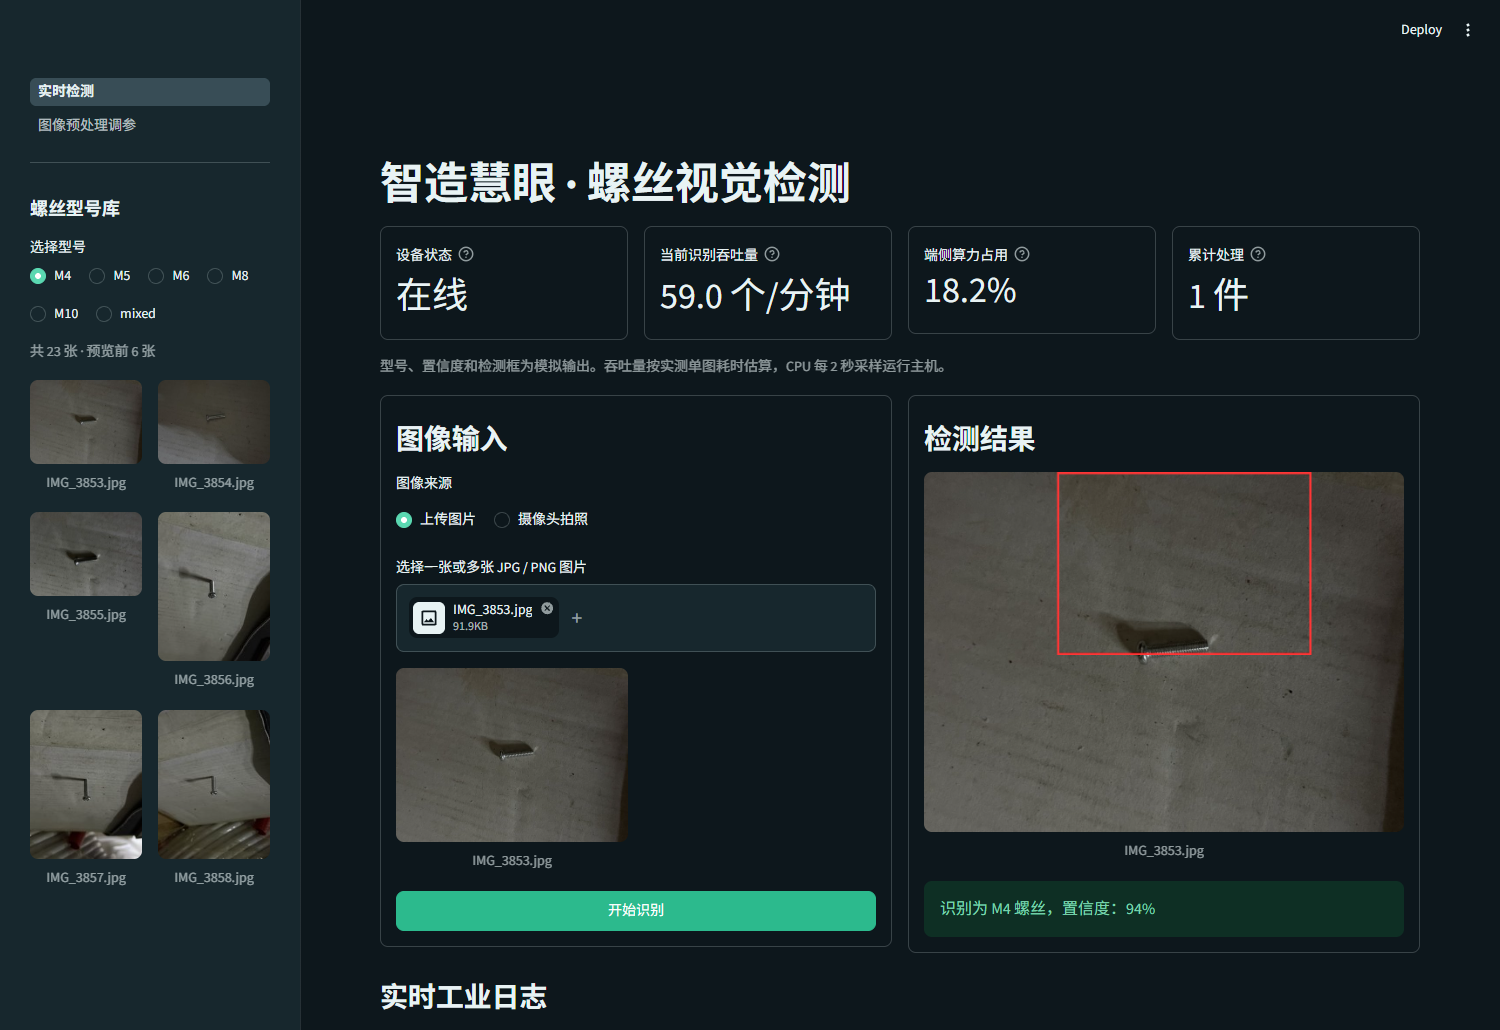
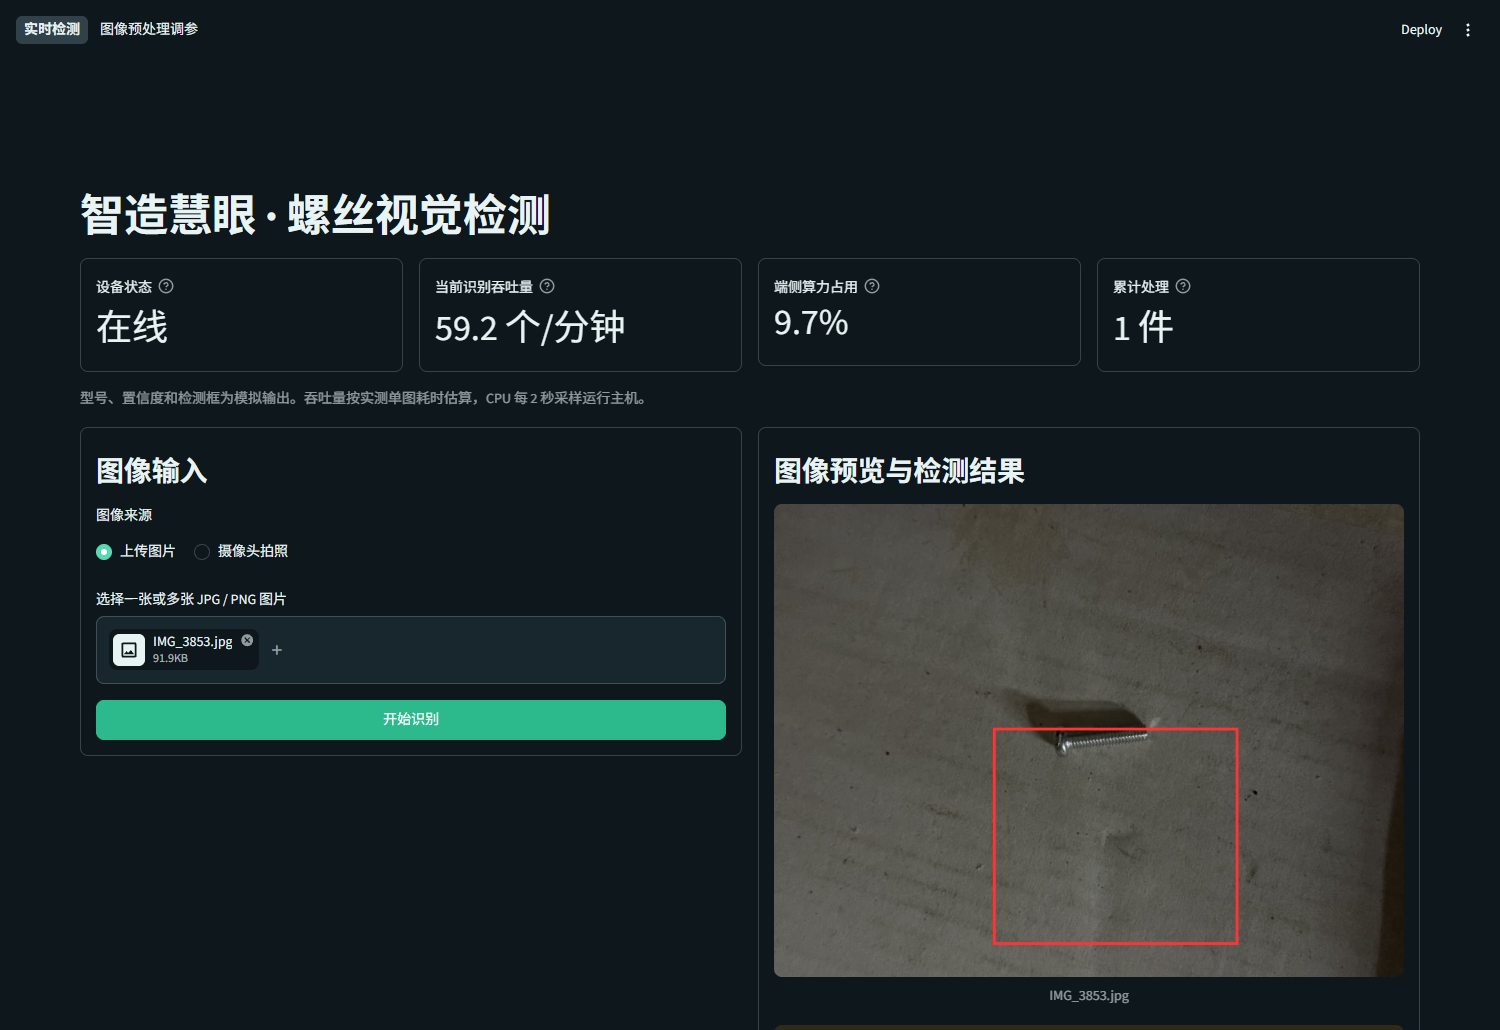
Remove the photo sidebar and show image previews with detection results

diff --git a/app.py b/app.py
@@ -20,9 +20,7 @@ from PIL import Image, ImageDraw, ImageOps
 
 
 ROOT = Path(__file__).resolve().parent
-LIBRARY = ROOT / "assets" / "screws"
 SPECS = ("M4", "M5", "M6", "M8", "M10")
-FORMATS = {".jpg", ".jpeg", ".png"}
 TAB_KEY = "vision_workspace_v1"
 st.set_page_config(page_title="智造慧眼 · 螺丝检测", layout="wide", page_icon="⚙")
 # 通过 Streamlit 的 Python 组件接口仅访问本应用的一项标签页存储。
@@ -34,7 +32,7 @@ tab_storage = components.declare_component(
 @st.cache_resource(ttl=3600, max_entries=32, show_spinner=False)
 def refresh_snapshot(tab_id):
     # 标签页仅持有随机恢复编号，图片与历史临时保存在服务端内存。
-    return {"selected_model": None, "inputs": {}, "source": "上传图片", "history": []}
+    return {"inputs": {}, "source": "上传图片", "history": []}
 
 
 def workspace():
@@ -79,37 +77,6 @@ def jpeg_thumb(image, size):
     buf = BytesIO()
     thumb.convert("RGB").save(buf, format="JPEG", quality=85)
     return buf.getvalue()
-
-
-@st.cache_data(show_spinner=False, max_entries=256)
-def library_thumb(path, modified):
-    # 文件修改时间参与缓存键；只缓存公共型号库，不缓存用户上传文件。
-    with Image.open(path) as im:
-        return jpeg_thumb(ImageOps.exif_transpose(im), (280, 220))
-
-
-def model_library(state):
-    st.subheader("螺丝型号库")
-    folders = [p.name for p in LIBRARY.iterdir() if p.is_dir()] if LIBRARY.is_dir() else []
-    folders.sort(key=lambda name: (SPECS.index(name) if name in SPECS else len(SPECS), name))
-    if not folders:
-        st.caption("型号库为空，请在 assets/screws 下添加分类文件夹。")
-        return
-    if "model_picker" not in st.session_state:
-        saved = state["selected_model"]
-        st.session_state.model_picker = saved if saved in folders else folders[0]
-    selected = st.radio("选择型号", folders, key="model_picker", horizontal=True)
-    state["selected_model"] = selected
-    files = sorted(p for p in (LIBRARY / selected).iterdir()
-                   if p.is_file() and p.suffix.lower() in FORMATS)
-    st.caption(f"共 {len(files)} 张 · 预览前 {min(6, len(files))} 张")
-    for start in range(0, min(6, len(files)), 2):
-        for col, path in zip(st.columns(2), files[start:start + 2]):
-            try:
-                col.image(library_thumb(path, path.stat().st_mtime_ns),
-                          caption=path.name, width="stretch")
-            except (OSError, ValueError, Image.DecompressionBombError):
-                col.caption(f"{path.name} · 图片不可读")
 
 
 def log_event(state, subsystem, message):
@@ -229,8 +196,6 @@ def detect_batch(state, items, slot):
 
 def detection_page():
     state = st.session_state.workbench
-    with st.sidebar:
-        model_library(state)
     st.caption("型号、置信度和检测框为模拟输出。吞吐量按实测单图耗时估算，CPU 每 2 秒采样运行主机。")
     left, right = st.columns(2)
     with left.container(border=True):
@@ -248,19 +213,18 @@ def detection_page():
         if isinstance(items, dict):  # 兼容更新前已打开的单图会话。
             items = [items]
             state["inputs"][source] = items
-        for offset in range(0, len(items), 2):
-            for col, item in zip(st.columns(2), items[offset:offset + 2]):
-                if "error" in item:
-                    col.error(f'{item["name"]}：{item["error"]}')
-                else:
-                    col.image(item.get("preview") or item["data"], caption=item["name"], width="stretch")
         start = st.button("开始识别", type="primary", width="stretch")
     with right.container(border=True):
-        st.subheader("检测结果")
-        results = [item for item in items if item.get("result")]
-        if not results:
-            st.caption("等待开始识别。")
-        for item in results:
+        st.subheader("图像预览与检测结果")
+        if not items:
+            st.caption("上传或拍照后，在这里查看图像。")
+        for item in items:
+            if "error" in item:
+                st.error(f'{item["name"]}：{item["error"]}')
+                continue
+            if not item.get("result"):
+                st.image(item.get("preview") or item["data"], caption=item["name"], width="stretch")
+                continue
             with Image.open(BytesIO(item["data"])) as im:
                 image = ImageOps.exif_transpose(im).convert("RGB")
             result = item["result"]
@@ -294,11 +258,11 @@ def detection_page():
         st.caption("暂无检测记录。")
 
 
-# 主入口默认为检测页；原有 CLAHE / Canny 调参工作台仍可从侧栏打开。
+# 顶部导航用于切换检测和图像预处理。
 pages = [st.Page(detection_page, title="实时检测", default=True)]
 if (ROOT / "preprocessing.py").is_file():
     pages.append(st.Page("preprocessing.py", title="图像预处理调参"))
-page = st.navigation(pages)
+page = st.navigation(pages, position="top")
 state = workspace()
 init_monitor(state)
 st.title("智造慧眼 · 螺丝视觉检测" if page.title == "实时检测" else "智造慧眼 · 图像预处理调参")
